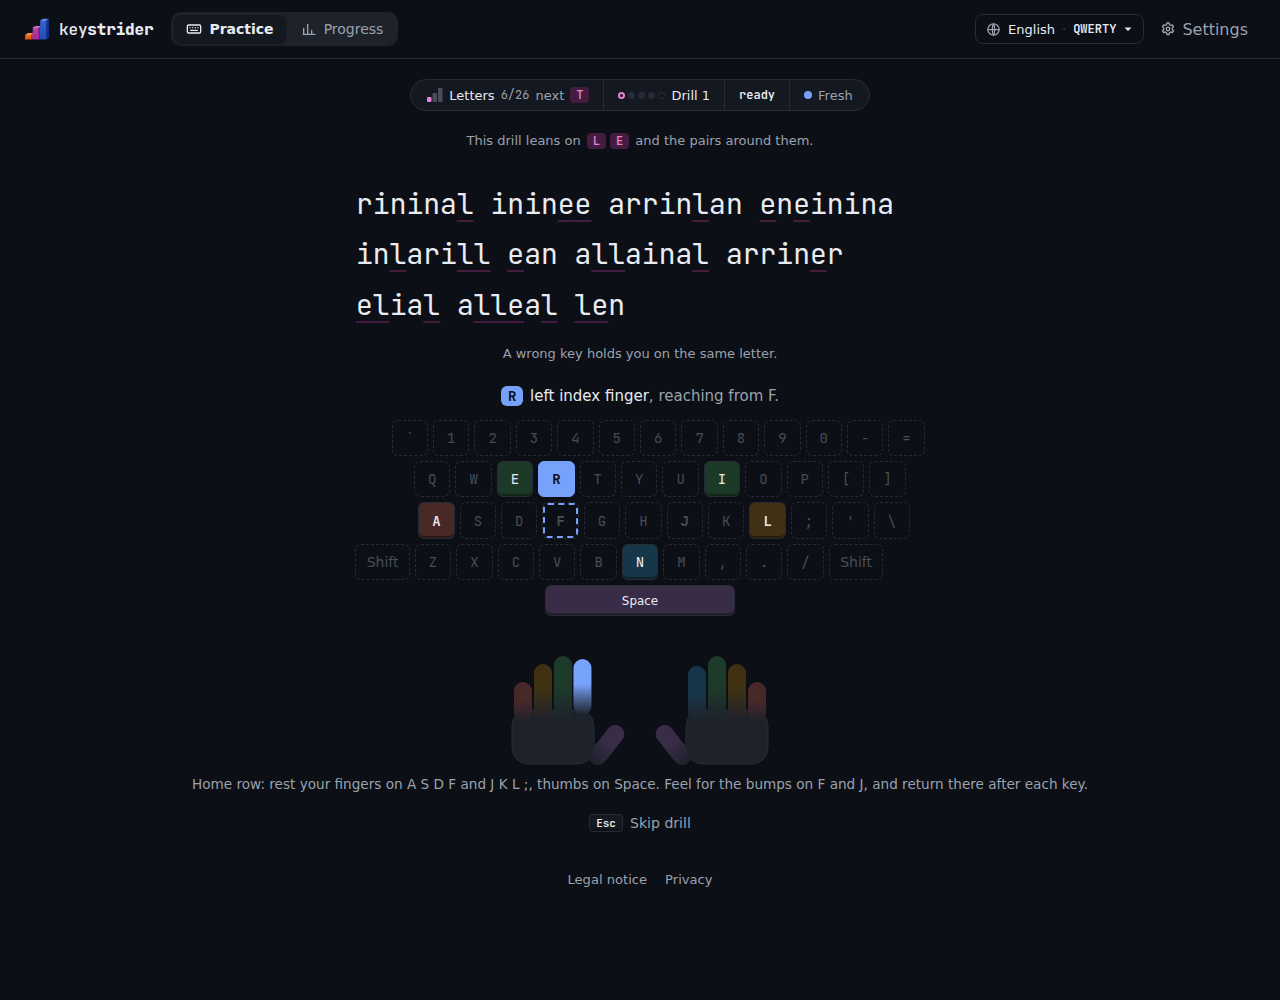
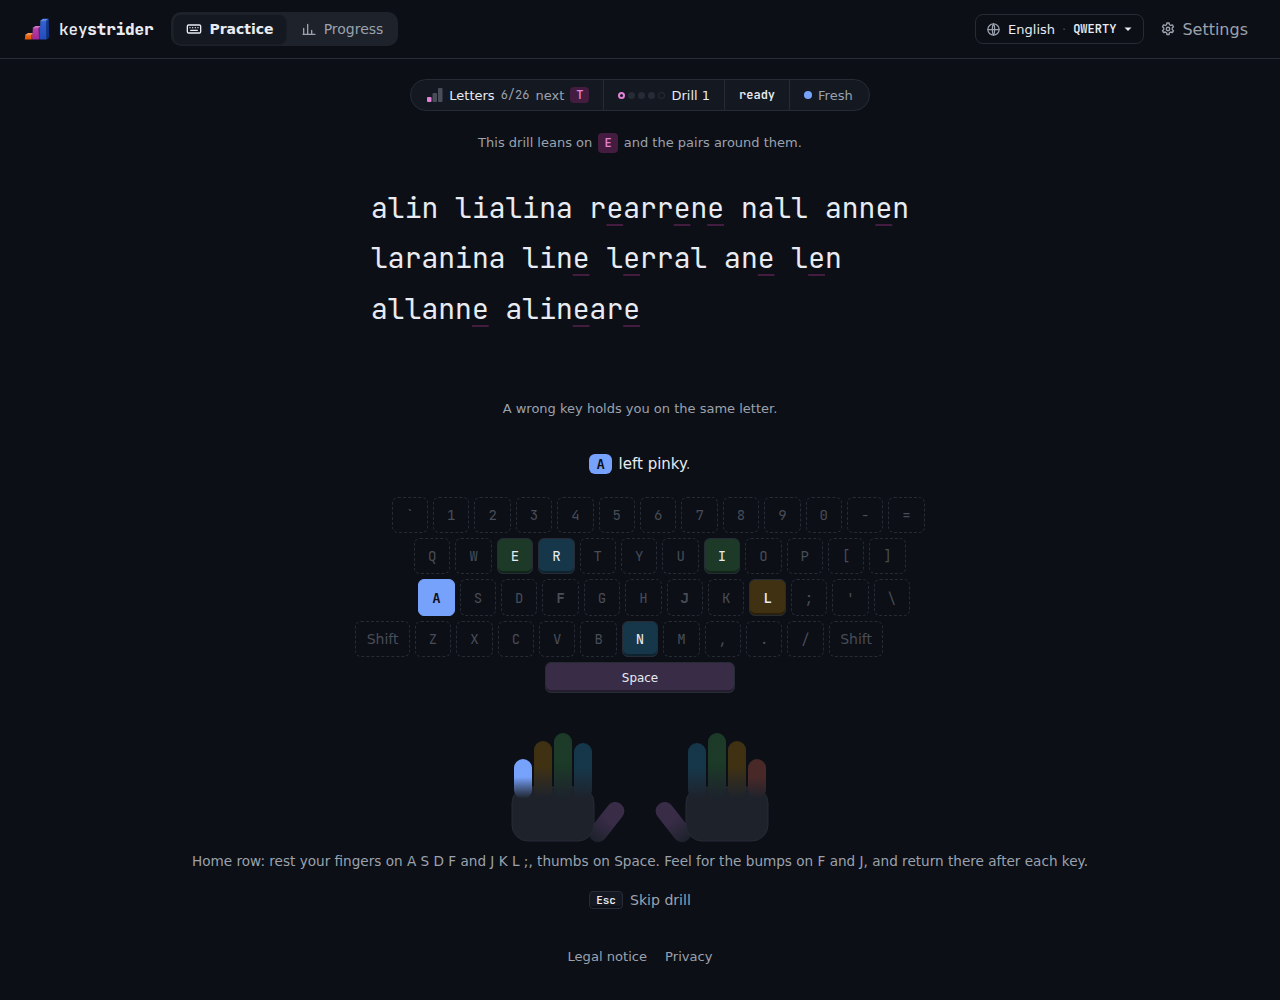
Keep the practice text centred and the finger guide in place
The drill text block shifts so its longest line sits in the middle of the
column (lines stay left-aligned). The text reserves four lines (five on
phones), the focus line keeps its row when empty, and the finger guide
caption has a fixed two-line box, so the keyboard no longer moves between
drills or when a longer hint appears.

Claude-Session: https://claude.ai/code/session_01S57r3w9TBHs2dHcLDmdTPE

diff --git a/src/style.css b/src/style.css
@@ -307,15 +307,19 @@ main { max-width: 960px; margin: 0 auto; padding: 20px 16px 40px; }
   font-family: var(--mono); font-size: clamp(20px, 3vw, 28px); line-height: 1.8;
   padding: 8px 4px; border-radius: 10px; cursor: text;
   white-space: pre-wrap; word-break: break-word; transition: opacity 0.15s;
+  /* Room for the longest usual drill, so a shorter one does not pull the guide up. */
+  min-height: calc(4 * 1.8em + 16px);
 }
 .text:not(.focused) { opacity: 0.5; }
+@media (max-width: 560px) { .text { min-height: calc(5 * 1.8em + 16px); } }
 .start-pill {
   position: absolute; top: 50%; left: 50%; transform: translate(-50%, -50%); white-space: nowrap;
   background: var(--panel); border: 1px solid var(--border); border-radius: var(--r-pill); box-shadow: var(--shadow);
   padding: 7px 14px; font-size: 14px; color: var(--fg);
 }
 .start-pill:hover { border-color: var(--faint); }
-.drill-focus { margin: 0; font-size: 13px; color: var(--muted); text-align: center; }
+.drill-focus { margin: 0; font-size: 13px; line-height: 20px; min-height: 20px; color: var(--muted); text-align: center; }
+.drill-focus.is-empty { visibility: hidden; }
 .focus-keys { display: inline-flex; gap: 4px; margin: 0 2px; }
 .drill-focus kbd {
   font-family: var(--mono); font-size: 12px; font-weight: 600; padding: 0 6px; border-radius: var(--r-xs);
@@ -447,7 +451,12 @@ tr.wrong td { color: var(--error); }
 
 /* --- Finger guide --- */
 .finger-guide { margin: 4px 0 0; display: flex; flex-direction: column; align-items: center; text-align: center; }
-.fg-caption { margin: 0 0 10px; font-size: 15px; min-height: 1.5em; }
+/* Fixed at two lines: long Shift hints wrap without moving the keyboard. */
+.fg-caption {
+  margin: 0 0 10px; font-size: 15px; line-height: 1.5; height: 3em; max-width: 34rem;
+  display: flex; align-items: center; justify-content: center;
+}
+.fg-caption-text { display: block; }
 .fg-cap-key {
   font-family: var(--mono); font-weight: 700; font-size: 14px; padding: 1px 7px; border-radius: var(--r-sm);
   background: var(--accent); color: var(--accent-ink); box-shadow: none;

diff --git a/src/main.ts b/src/main.ts
@@ -145,8 +145,32 @@ function renderText(): void {
     frag.append(span);
   });
   textEl.replaceChildren(frag);
+  if (centredText !== session.text) centreText();
   updateFingerGuide();
 }
+
+/**
+ * Lines stay left-aligned, but the block shifts so the longest line sits in
+ * the middle; otherwise the empty space after short lines makes it look off-centre.
+ */
+let centredText = '';
+function centreText(): void {
+  centredText = session.text;
+  textEl.style.transform = '';
+  const box = textEl.getBoundingClientRect();
+  let left = Infinity;
+  let right = -Infinity;
+  for (const span of textEl.children) {
+    if (span.classList.contains('sp')) continue;
+    const r = span.getBoundingClientRect();
+    left = Math.min(left, r.left);
+    right = Math.max(right, r.right);
+  }
+  if (!Number.isFinite(left) || box.width === 0) return;
+  const shift = (box.right - right - (left - box.left)) / 2;
+  if (shift > 1) textEl.style.transform = `translateX(${shift.toFixed(1)}px)`;
+}
+new ResizeObserver(() => centreText()).observe(textEl.parentElement ?? textEl);
 
 /** Live speed and accuracy for the coach bar's speed chip. */
 function nowData(): CoachData['now'] {
@@ -403,7 +427,8 @@ function renderCoach(): void {
   // Name the drill's target keys above the text; a finished drill's next targets are not known yet.
   const leans = session.done || kind === 'warmup' || kind === 'sentence'
     ? [] : drill.targets.filter((k) => [...k].length === 1).slice(0, 3);
-  drillFocusEl.hidden = leans.length === 0;
+  // Hidden but kept in the layout, so the text below does not jump between drills.
+  drillFocusEl.classList.toggle('is-empty', leans.length === 0);
   const keysEl = document.createElement('span');
   keysEl.className = 'focus-keys';
   for (const k of leans) keysEl.append(Object.assign(document.createElement('kbd'), { textContent: keyCap(k) }));

diff --git a/src/fingerGuide.ts b/src/fingerGuide.ts
@@ -111,16 +111,16 @@ export class FingerGuide {
     this.moved = [];
     this.root.classList.toggle('fg-faded', !revealed && ch !== undefined);
     if (ch === undefined) {
-      this.captionEl.textContent = '';
+      this.setCaption();
       return;
     }
     if (!revealed) {
-      this.captionEl.textContent = t('guide.fromMemory');
+      this.setCaption(t('guide.fromMemory'));
       return;
     }
     const g = guideFor(this.layout, ch);
     if (!g) {
-      this.captionEl.textContent = t('guide.noHint', { ch });
+      this.setCaption(t('guide.noHint', { ch }));
       return;
     }
     const light = (code: string | null, cls: string) => {
@@ -147,7 +147,14 @@ export class FingerGuide {
     let rest = '';
     if (g.home) rest += t('guide.reach', { home: keyLabel(this.layout, g.home) });
     if (g.shift) rest += t(g.shift === 'ShiftLeft' ? 'guide.holdShift.left' : 'guide.holdShift.right');
-    this.captionEl.replaceChildren(...tNodes('guide.caption', { keys: el('kbd', 'fg-cap-key', keys), finger }), el('span', 'fg-reach', rest + '.'));
+    this.setCaption(...tNodes('guide.caption', { keys: el('kbd', 'fg-cap-key', keys), finger }), el('span', 'fg-reach', rest + '.'));
+  }
+
+  /** The caption box keeps its height; the text inside is centred in it. */
+  private setCaption(...parts: (Node | string)[]): void {
+    const inner = el('span', 'fg-caption-text');
+    inner.append(...parts);
+    this.captionEl.replaceChildren(inner);
   }
 
   /** Lights up the guide for the character it is currently dimmed on. */

diff --git a/index.html b/index.html
@@ -82,7 +82,7 @@
           </div>
           <div id="coach-pop" class="coach-pop" role="dialog" aria-label="Details" data-i18n-aria-label="coach.popAria" hidden></div>
         </div>
-        <p id="drill-focus" class="drill-focus" hidden></p>
+        <p id="drill-focus" class="drill-focus is-empty"></p>
         <div id="drill-keys" class="drill-keys" aria-label="Keys unlocked so far" data-i18n-aria-label="practice.keysAria"></div>
         <p id="drill-cue" class="drill-cue" data-i18n="practice.cue" hidden>Accuracy first: slow down and type cleanly. Speed is hidden until you are back on track.</p>
         <div class="text-wrap">
